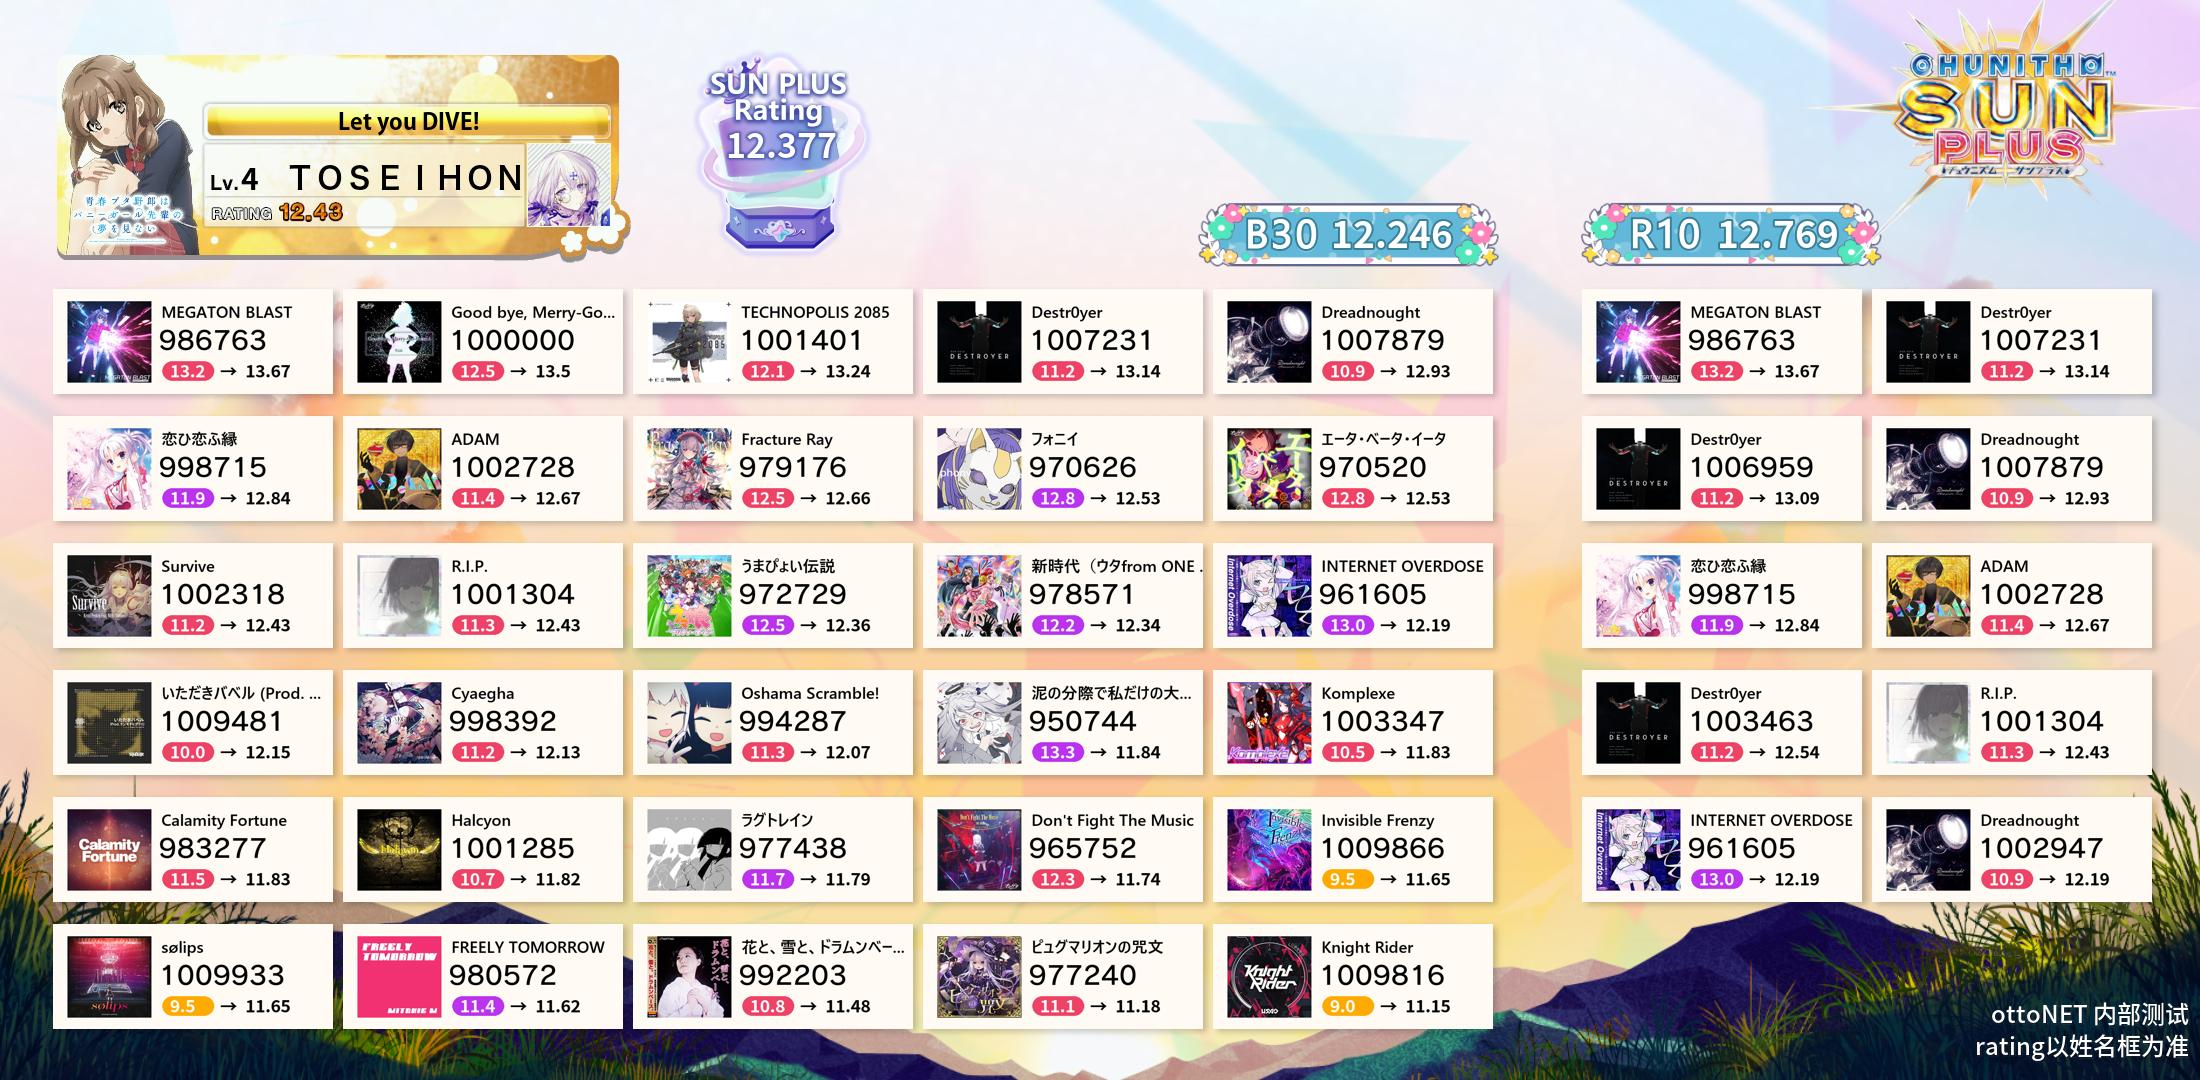
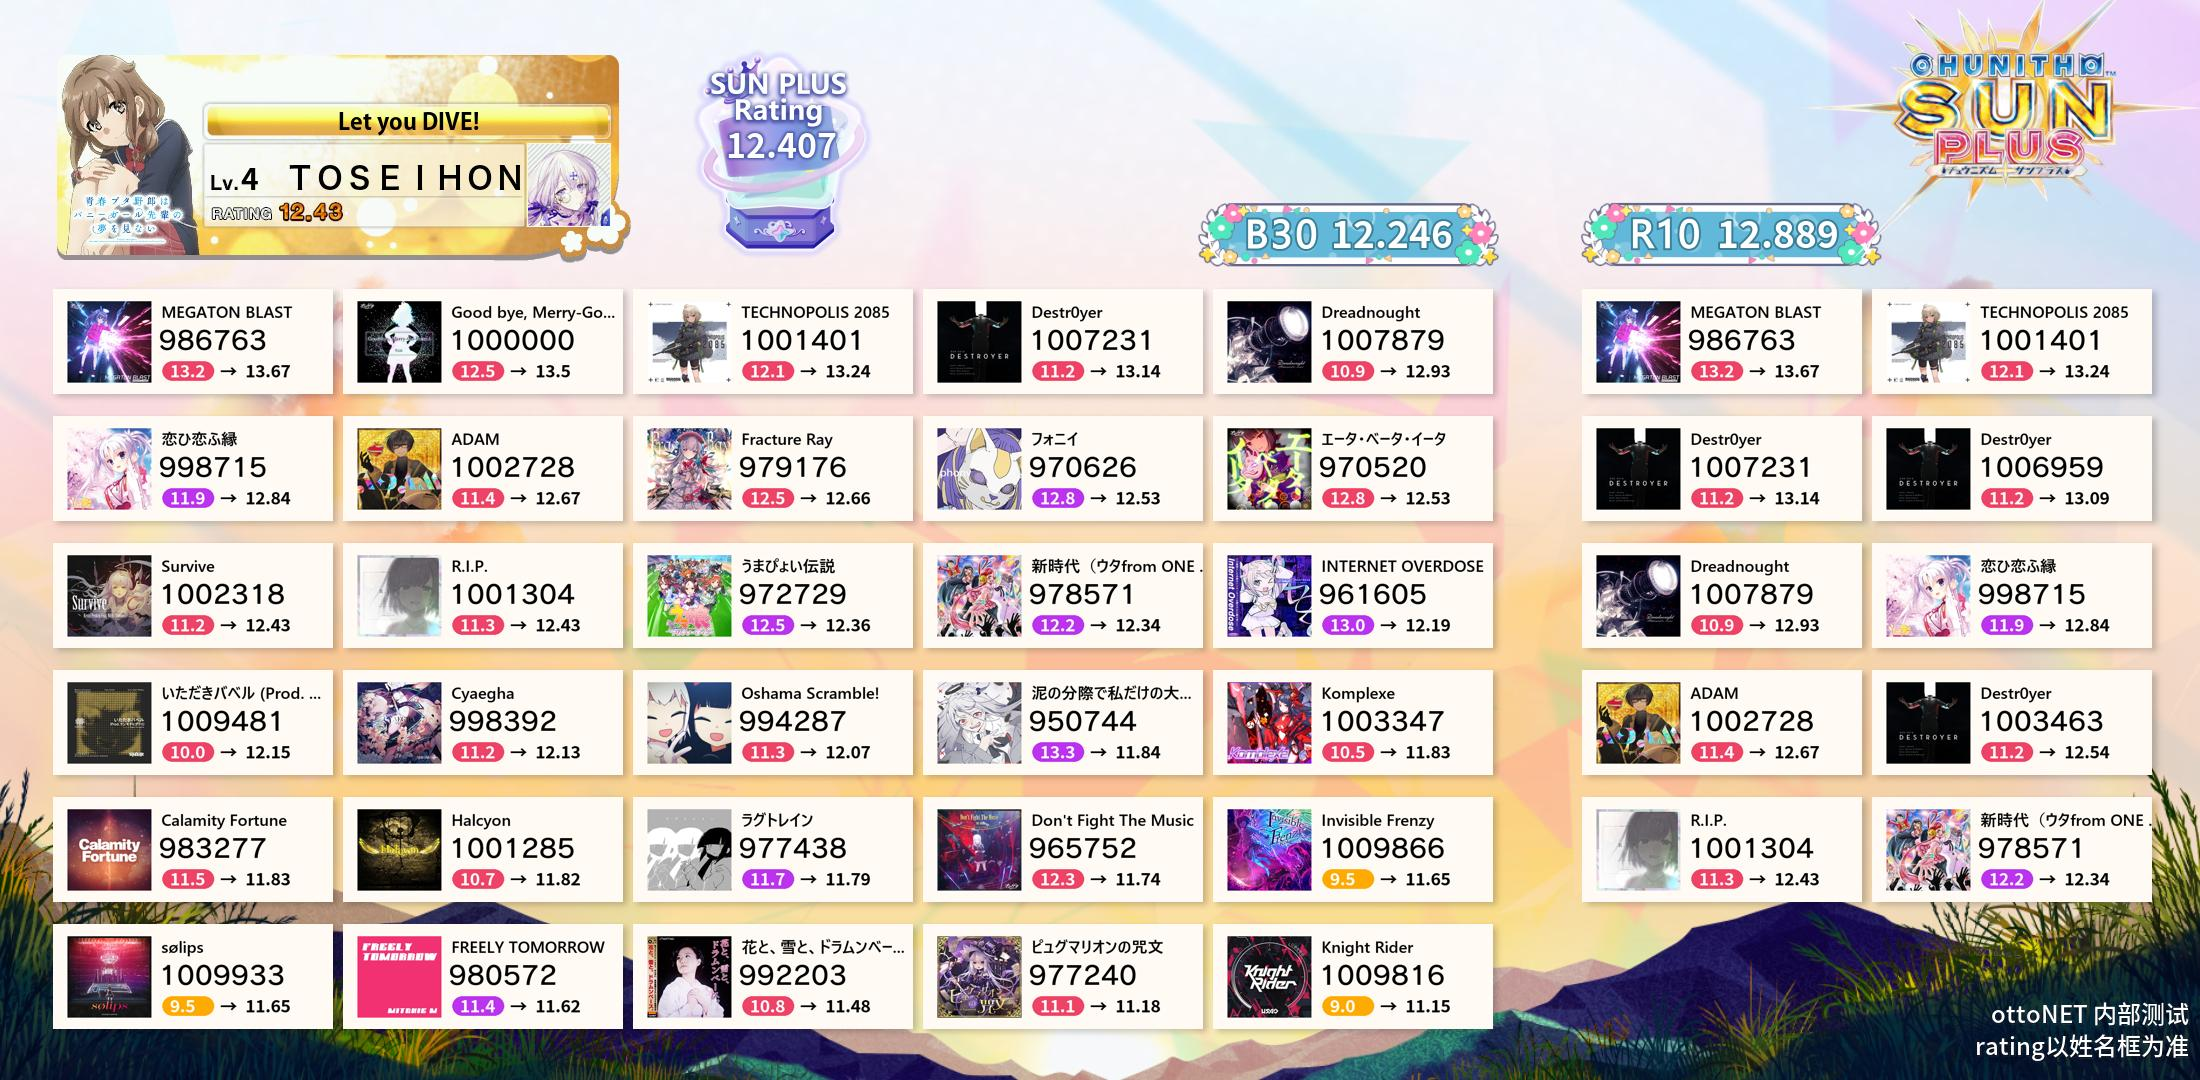
完善userdataapi,更新r10计算算法

diff --git a/app.py b/app.py
@@ -3,6 +3,8 @@ import sqlite3
 import b30 as ratTools
 import io
 import os
+import json
+from PIL import Image, ImageFont, ImageDraw, ImageFilter
 
 app = Flask(__name__, static_url_path='/static')
 
@@ -64,7 +66,6 @@ def quickloginapi():
             return jsonify(error='非法操作'), 403
     else:
         return jsonify(user_list)  # 返回用户列表
-    
 
 @app.route('/api/news', methods=['POST'])
 def newsapi():
@@ -77,7 +78,6 @@ def newsapi():
             return jsonify({"news": news_content}), 200
     else:
         return jsonify({"news": "内部绝赞测试中"}), 200
-
 
 @app.route('/api/b30', methods=['POST'])
 def b30api():
@@ -158,8 +158,7 @@ def user_dataapi():
     cursor.execute("SELECT * FROM chusan_user_data WHERE card_id = '{}'".format(id))
     rows = cursor.fetchall()
     columns = [description[0] for description in cursor.description]
-    for row in reversed(rows):
-        row_dict = dict(zip(columns, row))
+    row_dict = dict(zip(columns, rows[0]))
     conn.close()
     
     return jsonify(row_dict)
@@ -192,6 +191,155 @@ def loginapi():
     else:
         return jsonify(error='未查询到用户'), 404
 
+@app.route('/api/user_item')
+def user_itemapi():
+
+    if not ('db_id' in request.cookies):
+        return jsonify(error='未登录'), 403
+    else :
+        user_id = request.cookies.get("db_id")
+        
+        try:
+            assert(user_id.isdecimal())
+        except AssertionError as e:
+            return jsonify(error='非法操作'), 403
+        
+    json_data = []
+
+    # 当前装备物品
+    
+    user_data_response = user_dataapi()
+    try:
+        if user_data_response.status_code == 200:
+            user_data = json.loads((user_data_response.response)[0].decode('utf-8'))
+    except:
+        return jsonify(error='非法操作'), 403
+    
+    json_data.append(user_data)
+
+    # 当前持有物品
+
+    conn = sqlite3.connect('../rinsama-aqua/data/db.sqlite')
+    cursor = conn.cursor()
+    cursor.execute("SELECT item_id, item_kind, stock FROM chusan_user_item WHERE user_id = '{}'".format(user_id))
+    rows = cursor.fetchall()
+
+    item_types = {
+        "Nameplate": [],
+        "Frame": [],
+        "Trophy": [],
+        "Skill": [],
+        "Ticket": [],
+        "Present": [],
+        "Music": [],
+        "Map Icon": [],
+        "System Voice": [],
+        "Symbol Chat": [],
+        "Avatar Accessory": []
+    }
+
+    for row in rows:
+        item_id = row[0]
+        item_kind = row[1]
+        stock = row[2]
+        if item_kind == 1:
+            item_types["Nameplate"].append({"item_id": item_id, "stock": stock})
+        elif item_kind == 2:
+            item_types["Frame"].append({"item_id": item_id, "stock": stock})
+        elif item_kind == 3:
+            item_types["Trophy"].append({"item_id": item_id, "stock": stock})
+        elif item_kind == 4:
+            item_types["Skill"].append({"item_id": item_id, "stock": stock})
+        elif item_kind == 5:
+            item_types["Ticket"].append({"item_id": item_id, "stock": stock})
+        elif item_kind == 6:
+            item_types["Present"].append({"item_id": item_id, "stock": stock})
+        elif item_kind == 7:
+            item_types["Music"].append({"item_id": item_id, "stock": stock})
+        elif item_kind == 8:
+            item_types["Map Icon"].append({"item_id": item_id, "stock": stock})
+        elif item_kind == 9:
+            item_types["System Voice"].append({"item_id": item_id, "stock": stock})
+        elif item_kind == 10:
+            item_types["Symbol Chat"].append({"item_id": item_id, "stock": stock})
+        elif item_kind == 11:
+            item_types["Avatar Accessory"].append({"item_id": item_id, "stock": stock})
+
+    #Trophy 部分
+
+    user_trophy_list=[]
+    matched_trophies = []
+
+    for item in item_types['Trophy']:
+        user_trophy_list.append(item['item_id'])
+
+    try:
+        assert(user_data["trophy_id"] in user_trophy_list)
+    except AssertionError as e:
+        return jsonify(error='账户数据异常(已设置的收藏品尚未获得，通常是由于绕过前端直接操作数据库造成的。)'), 403
+    
+    try:
+        with open("masterdata/Trophy_output.json", 'r', encoding='utf-8') as file:
+            data = json.load(file)
+        
+        for trophy_id in user_trophy_list:
+            for item in data:
+                if str(item["id"]) == str(trophy_id):
+                    trophy_name = item["str"]
+                    explainText = item["explainText"]
+                    rarity = int(item["rareType"])
+                    matched_trophies.append({
+                        "id": trophy_id,
+                        "name": trophy_name,
+                        "explainText": explainText,
+                        "rarity": rarity
+                    })
+                    break
+        # print(json.dumps(matched_trophies, ensure_ascii=False, indent=4))
+    except:
+        pass
+
+    json_data.append(matched_trophies)
+
+    #nameplate 部分
+
+    user_nameplate_list=[]
+    matched_nameplates = []
+
+    for item in item_types['Nameplate']:
+        user_nameplate_list.append(item['item_id'])
+    try:
+        assert(user_data["nameplate_id"] in user_nameplate_list)
+    except AssertionError as e:
+        return jsonify(error='账户数据异常(已设置的收藏品尚未获得，通常是由于绕过前端直接操作数据库造成的。)'), 403
+    
+    try:
+        with open("masterdata/Nameplate_output.json", 'r', encoding='utf-8') as file:
+            data = json.load(file)
+        
+        for nameplate_id in user_nameplate_list:
+            for item in data:
+                if str(item["id"]) == str(nameplate_id):
+                    nameplate_name = item["str"]
+                    explainText = item["explainText"]
+                    matched_nameplates.append({
+                        "id": nameplate_id,
+                        "name": nameplate_name,
+                        "explainText": explainText,
+                        "src": "static/NamePlate/{}.png".format(str(nameplate_id).zfill(5))
+                    })
+                    break
+        # print(json.dumps(matched_nameplates, ensure_ascii=False, indent=4))
+    except:
+        pass
+
+    json_data.append(matched_nameplates)
+
+    #chara 部分
+
+    return jsonify(json_data)
+
+
 @app.route('/')
 def indexPage():
     """
@@ -212,12 +360,17 @@ def loginPage():
         return redirect(url_for('cardPage'))
     return send_from_directory('static', 'login.html')
 
-# 登录页面路由
+# 测试路由
 @app.route('/test')
 def testPage():
     """
     提供登录页面
     """
+    if not ('db_id' in request.cookies):
+        return jsonify(error='未登录'), 403
+    else :
+        user_id = request.cookies.get("db_id")
+    
     return send_from_directory('static', 'test.html')
 
 # 主页路由
@@ -230,7 +383,7 @@ def cardPage():
         return redirect(url_for('loginPage'))
     return send_from_directory('static', 'card.html')
 
-# 服务路由
+# 游玩记录路由
 @app.route('/playlog')
 def playlogPage():
     """
@@ -240,7 +393,7 @@ def playlogPage():
         return redirect(url_for('loginPage'))
     return send_from_directory('static', 'playlog.html')
 
-# 服务路由
+# b30图片路由
 @app.route('/b30')
 def b30Page():
     """

diff --git a/b30.py b/b30.py
@@ -329,16 +329,24 @@ def process_r10(id):
     cursor = conn.cursor()
     cursor.execute("SELECT * FROM chusan_user_playlog WHERE user_id = '{}'".format(id))
     rows = cursor.fetchall()
+    rows = list(reversed(rows))
     columns = [description[0] for description in cursor.description]
     user_data = []
     count = 0
-    for row in reversed(rows):
-        if row[19] in [0,1,2,3,4]:
+    for row, next_row in zip(rows, rows[1:] + [None]):
+        if row[19] in [0, 1, 2, 3, 4]:
             if count >= 30:
                 break
+
+            #如果某次游玩取得了不低于SSS的评价但Rating值不足以更新这30次游玩的成绩，该次记录不会参与最近30次游玩的计算。
+            #这里通过判断前后rating是否变化来得知是否更新了r30，实际上这样只能知道是否更新了r10
+            if (next_row is not None) and (int(row[47]) >= 1007500) and (next_row[40] == row[40]):
+                continue
+            
             row_dict = dict(zip(columns, row))
             user_data.append(row_dict)
             count += 1
+
     conn.close()
     difficulty_mapping = {
         "0": "basic",
